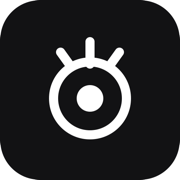
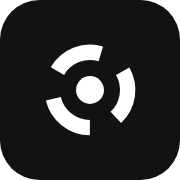
Give the product a mark that survives sixteen pixels
Of the three generated options the enclosed field read as a dice face, and
the severed thread lost its gaps below about 48px — which inverted its
meaning, because the gaps were the whole argument. The aperture survived, so
that is the mark.

It is redrawn rather than traced. The generated version had six irregular
blades with hooked tips that merged into a blob at favicon size, so it is
three even blades now, sized against the place a mark actually has to work:
a browser tab. Rendering both candidates as real 16, 32 and 64px tiles was
what settled it — at brand size all four variants looked fine, which is
exactly why choosing a logo at brand size does not work.

An aperture rather than an eye, a shield or a lock: every surveillance
product and every crypto wallet already wears one of those, and an aperture
is the honest shape for a thing whose job is deciding how much gets through.

The geometry now lives in three places that have to agree — `LumenMark`,
`public/icon.svg`, and `GEOMETRY` in the new brand script — so the script
draws every raster from its own copy instead of anyone hand-exporting PNGs
that quietly drift from the app.

Also adds the social card, which we did not have at all. Pasted links have
been rendering bare in every chat app this whole time; now they carry the
thesis, the wordmark and the constellation, with the type composited in our
own faces rather than baked into a generated image.
[…]

diff --git a/src/components/lumen/icons.tsx b/src/components/lumen/icons.tsx
@@ -236,17 +236,24 @@ export function ArrowRight(props: IconProps) {
 }
 
 /** The Lumen mark: a soft ring with light entering from above. */
+/**
+ * The Lumen mark: an aperture, three blades, closed down to a point.
+ *
+ * Not an eye, a shield or a lock — every surveillance product and every
+ * crypto wallet already wears one of those. An aperture is the honest shape
+ * for what this does: it decides how much gets through. Three blades rather
+ * than six because six merge into a blob at sixteen pixels, which is where a
+ * mark actually has to work.
+ */
 export function LumenMark({ size = 24, ...props }: IconProps) {
   return (
     <svg width={size} height={size} viewBox="0 0 24 24" fill="none" aria-hidden {...props}>
-      <circle cx="12" cy="13" r="7.2" stroke="currentColor" strokeWidth="1.8" />
-      <path
-        d="M12 1.8v4.4M6.2 3.9l1.9 2.7M17.8 3.9l-1.9 2.7"
-        stroke="currentColor"
-        strokeWidth="1.8"
-        strokeLinecap="round"
-      />
-      <circle cx="12" cy="13" r="2.6" fill="currentColor" />
+      <g stroke="currentColor" strokeWidth="3.3">
+        <path d="M19.03 7.98A8.1 8.1 0 0 1 17.56 17.89" />
+        <path d="M11.97 20.10A8.1 8.1 0 0 1 4.12 13.87" />
+        <path d="M5.00 7.92A8.1 8.1 0 0 1 14.32 4.24" />
+      </g>
+      <circle cx="12" cy="12" r="3" fill="currentColor" />
     </svg>
   )
 }

diff --git a/src/app/layout.tsx b/src/app/layout.tsx
@@ -39,12 +39,22 @@ export const metadata: Metadata = {
     description:
       'Pay, receive and save on Starknet without publishing a financial profile. Private is the only easy path.',
     type: 'website',
+    siteName: 'Lumen',
+    images: [
+      {
+        url: '/og.png',
+        width: 1200,
+        height: 630,
+        alt: 'Lumen — your payments should not become a map of your life.',
+      },
+    ],
   },
   twitter: {
     card: 'summary_large_image',
     title: 'Lumen — private money, by default',
     description:
       'Ordinary money movement should not create a public financial profile. Lumen makes the private path the only easy path.',
+    images: ['/og.png'],
   },
 }
 

diff --git a/docs/BRAND-PROMPTS.md b/docs/BRAND-PROMPTS.md
@@ -1,5 +1,30 @@
 # Asset prompts
 
+> **Resolved.** The aperture (1a) won and ships as the mark; the plate from §2
+> ships as the social card. What follows is kept as the record of what was
+> asked for and why, and as the brief to re-run if the brand ever moves.
+>
+> **What was chosen, and what changed in the drawing.** Of the three logo
+> options, the enclosed field read as a dice face and the severed thread lost
+> its gaps below about 48px — which inverted its meaning, since the gaps *are*
+> the argument. The aperture survived. It was then redrawn from scratch as
+> vector geometry rather than traced: the generated version had six irregular
+> blades with hooked tips that merged into a blob at 16px, so it is three even
+> blades now, at the size a favicon actually renders. `npm run brand`
+> regenerates every raster from that one definition.
+>
+> **On watermarks.** None of the five images carried a visible one. What they
+> carry is a C2PA content credential — a signed manifest from Grok Imagine
+> recording that the image is AI-generated. That is a provenance signal rather
+> than a badge on the artwork, so it was left alone. It costs nothing: the
+> logo is new geometry with no bitmap in it, and the social card is composited
+> fresh.
+>
+> Source images live in `docs/brand/`. They are deliberately not in `public/`,
+> which would serve them to anyone.
+
+---
+
 Generate these, drop the files where each section says, and tell me — I'll wire
 them in. Everything is monochrome on purpose: ink `#121214`, paper `#f3f2f0`,
 white `#ffffff`. No gradients, no colour, no third tone.
@@ -105,15 +130,18 @@ Swiss graphic design, absolutely no text, no letters, no logo, no watermark.
 
 ---
 
-## What I do once you send them
+## Where each asset ended up
 
-1. Trace the chosen logo to clean SVG paths and replace `LumenMark` in
-   [icons.tsx](../src/components/lumen/icons.tsx) — it drives the nav, the app
-   sidebar, the connect screen, the pay page and the claim page at once.
-2. Rebuild `public/icon.svg`, `icon-180.png`, `icon-192.png`, `icon-512.png`
-   and the web manifest from it.
-3. Add the OG image to `metadata.openGraph.images` and `metadata.twitter.images`
-   in [layout.tsx](../src/app/layout.tsx), which is what fixes link previews.
+| Asset | Lives in | Rebuilt by |
+| --- | --- | --- |
+| The mark | `LumenMark` in [icons.tsx](../src/components/lumen/icons.tsx) | by hand |
+| App tile | `public/icon.svg` | by hand, kept in step with the above |
+| Launcher icons | `public/icon-{180,192,512}.png` | `npm run brand` |
+| Social card | `public/og.png` | `npm run brand` |
+
+The geometry appears three times — in `LumenMark`, in `icon.svg`, and in
+`GEOMETRY` at the top of [brand.mjs](../scripts/brand.mjs). Change one and
+change all three, or the favicon quietly stops matching the app.
 
 ## What I am not asking you to generate
 
